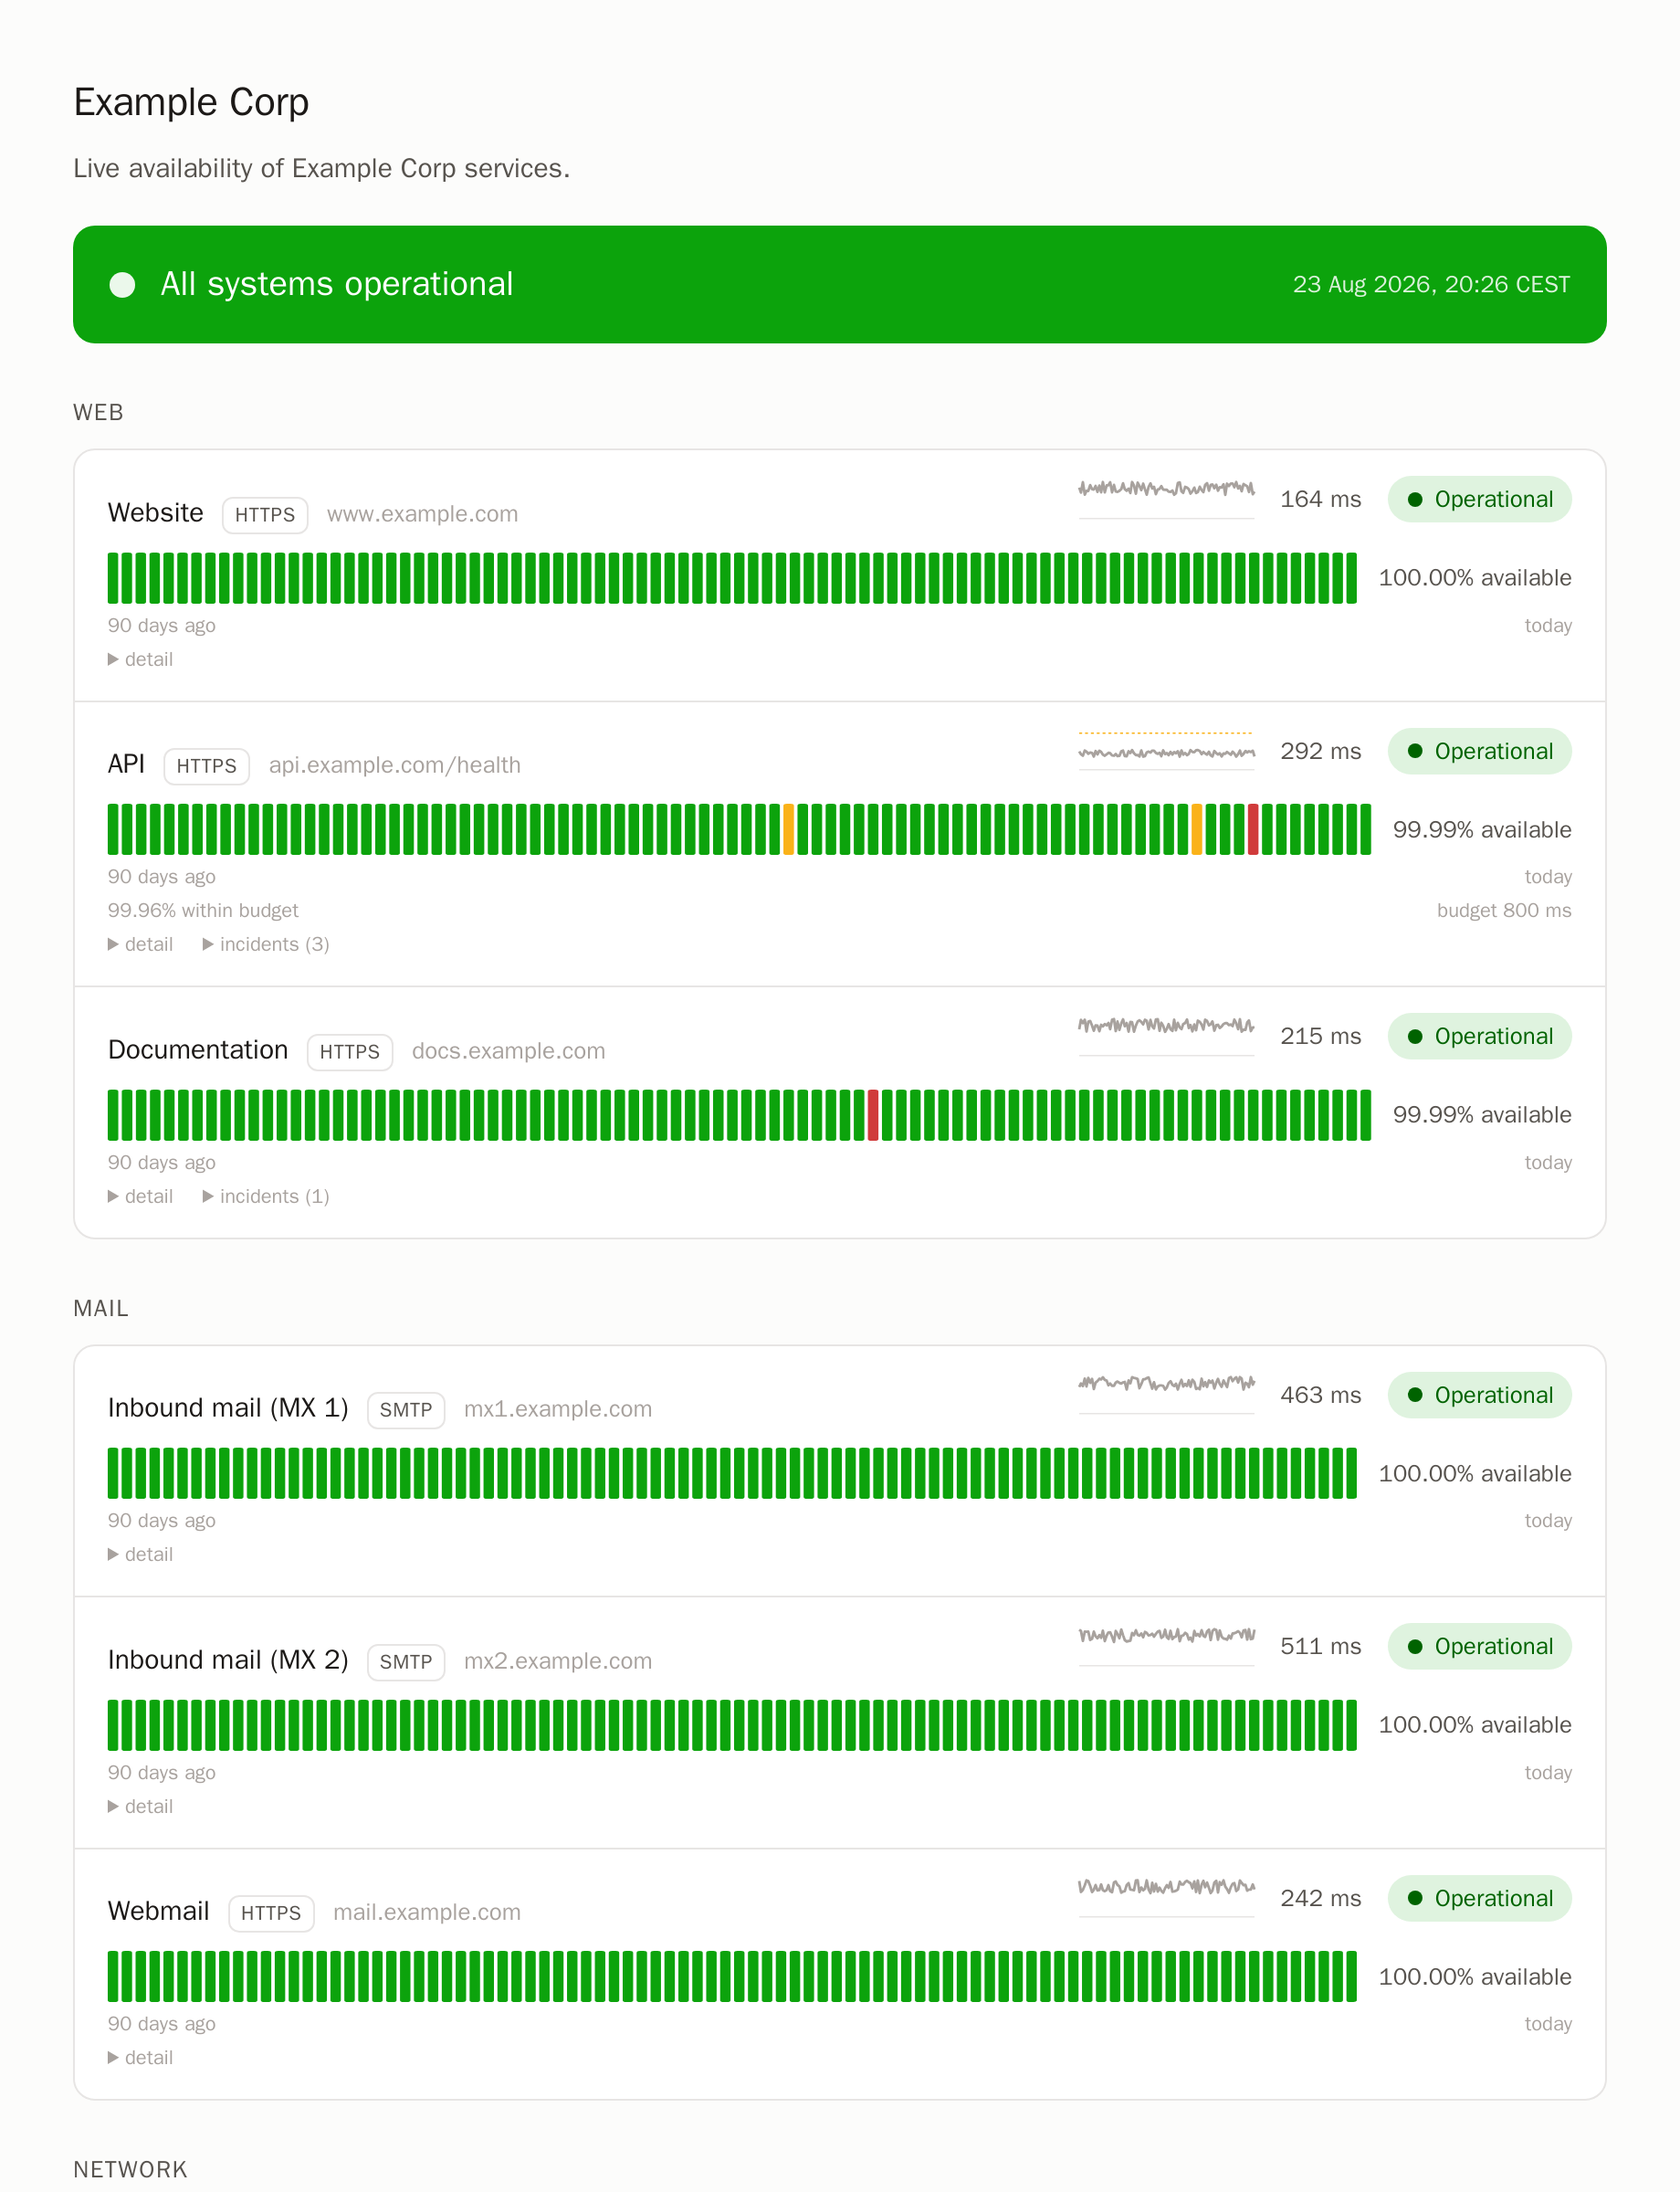
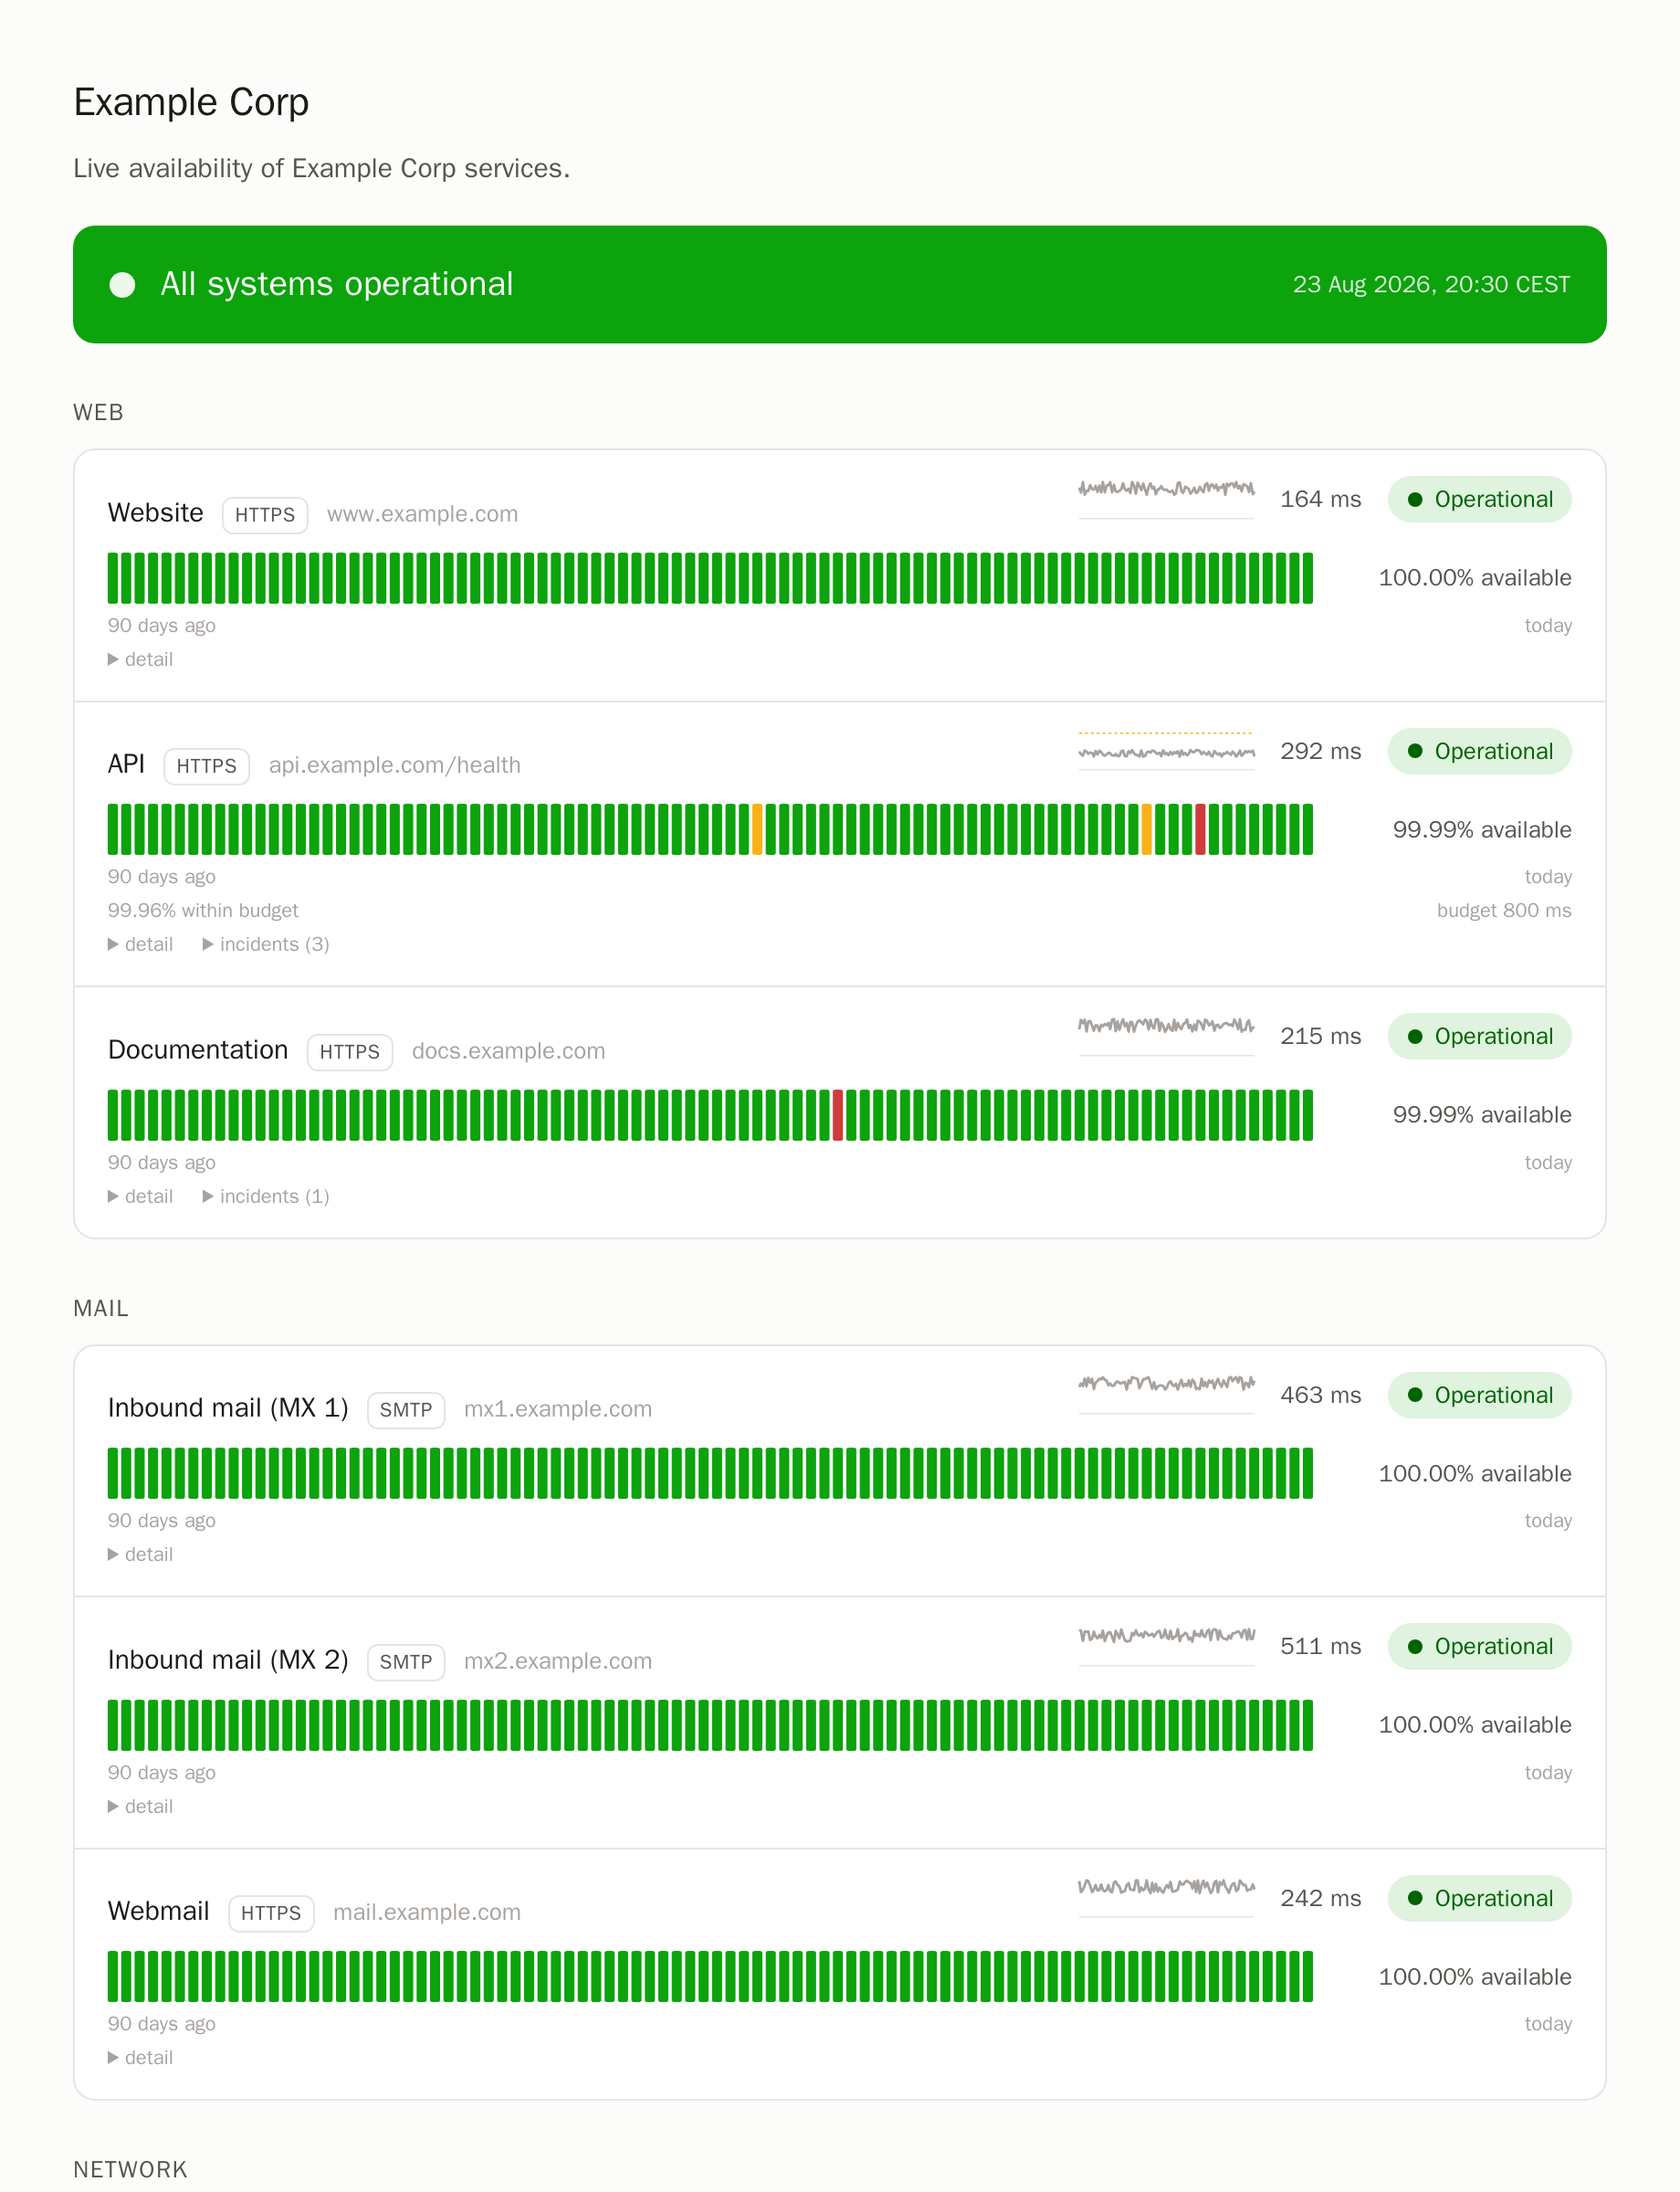
Give the bar the same width whatever figure stands beside it

diff --git a/tests/test_render.py b/tests/test_render.py
@@ -1,4 +1,5 @@
 import json
+import re
 from datetime import datetime
 
 import fixtures
@@ -239,3 +240,19 @@ class TestRenderStatus:
         assert by_key["website"]["performance"] is None
         assert status["incidents"][0]["ended_at"] is None
         assert {i["kind"] for i in status["incidents"]} <= {"down", "slow"}
+
+
+class TestBarWidth:
+    def test_the_figure_beside_the_bar_has_a_fixed_width(self):
+        """The bar is flex:1, so anything sized to its own text next to it
+        takes width out of the bar. A 100.00% row would draw a shorter bar
+        than a 99.99% one, and bars are read by comparing them."""
+        page = render.render_page(fixtures.build_state("all-green", NOW))
+        assert ".ratio{flex:0 0 10em" in page
+
+    def test_every_bar_in_a_page_is_the_same_width(self):
+        """viewBox width comes from the number of days, which is the page's
+        history window — identical for every check by construction."""
+        page = render.render_page(fixtures.build_state("degraded-slow", NOW))
+        widths = set(re.findall(r'class="bar" viewBox="0 0 (\d+) 28"', page))
+        assert len(widths) == 1, f"bars drawn at differing widths: {widths}"

diff --git a/modules/renderer/src/render.py b/modules/renderer/src/render.py
@@ -184,8 +184,13 @@ h1{{font-size:22px;font-weight:650;letter-spacing:-.01em}}
 .bar{{flex:1;height:28px;display:block}}
 .d-up{{fill:var(--ok)}}.d-slow{{fill:var(--warn)}}.d-down{{fill:var(--critical)}}
 .d-unknown{{fill:var(--neutral);opacity:.45}}
-.ratio{{font-size:13px;color:var(--ink-secondary);font-variant-numeric:tabular-nums;
-  text-align:right;white-space:nowrap}}
+/* Fixed, not sized to its text: the bar beside it is flex:1, so a figure
+   one character wider — 100.00% against 99.99% — would take that character
+   out of the bar and leave the column ragged down the page. Bars are
+   compared to each other by eye, which only works if they are the same
+   length. */
+.ratio{{flex:0 0 10em;font-size:13px;color:var(--ink-secondary);
+  font-variant-numeric:tabular-nums;text-align:right;white-space:nowrap}}
 .bar-caption{{display:flex;justify-content:space-between;color:var(--ink-muted);
   font-size:11px;margin-top:4px}}
 .windows{{display:flex;justify-content:space-between;flex-wrap:wrap;gap:2px 16px;
